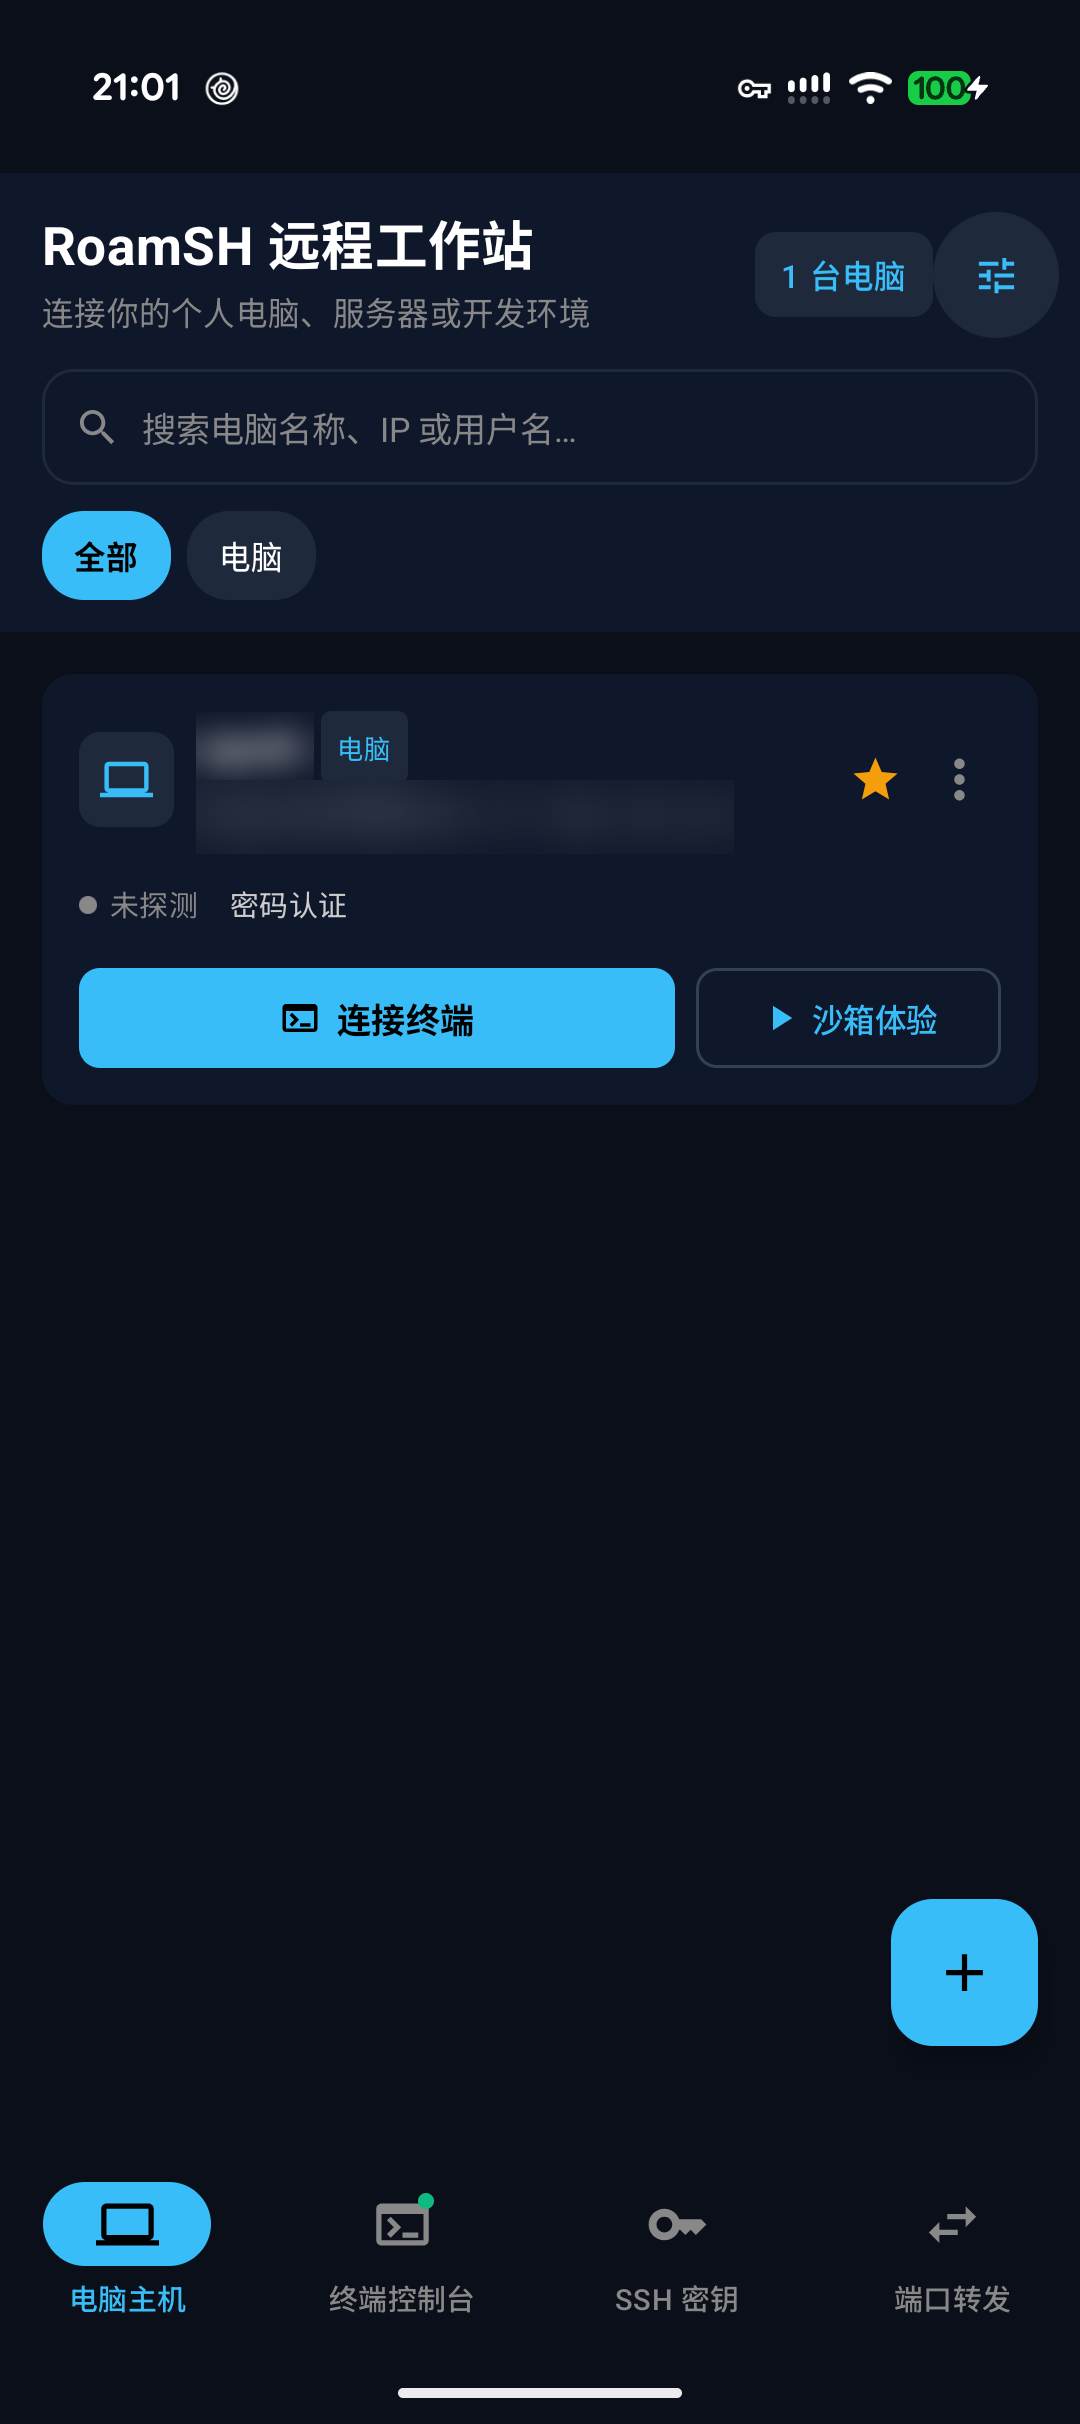
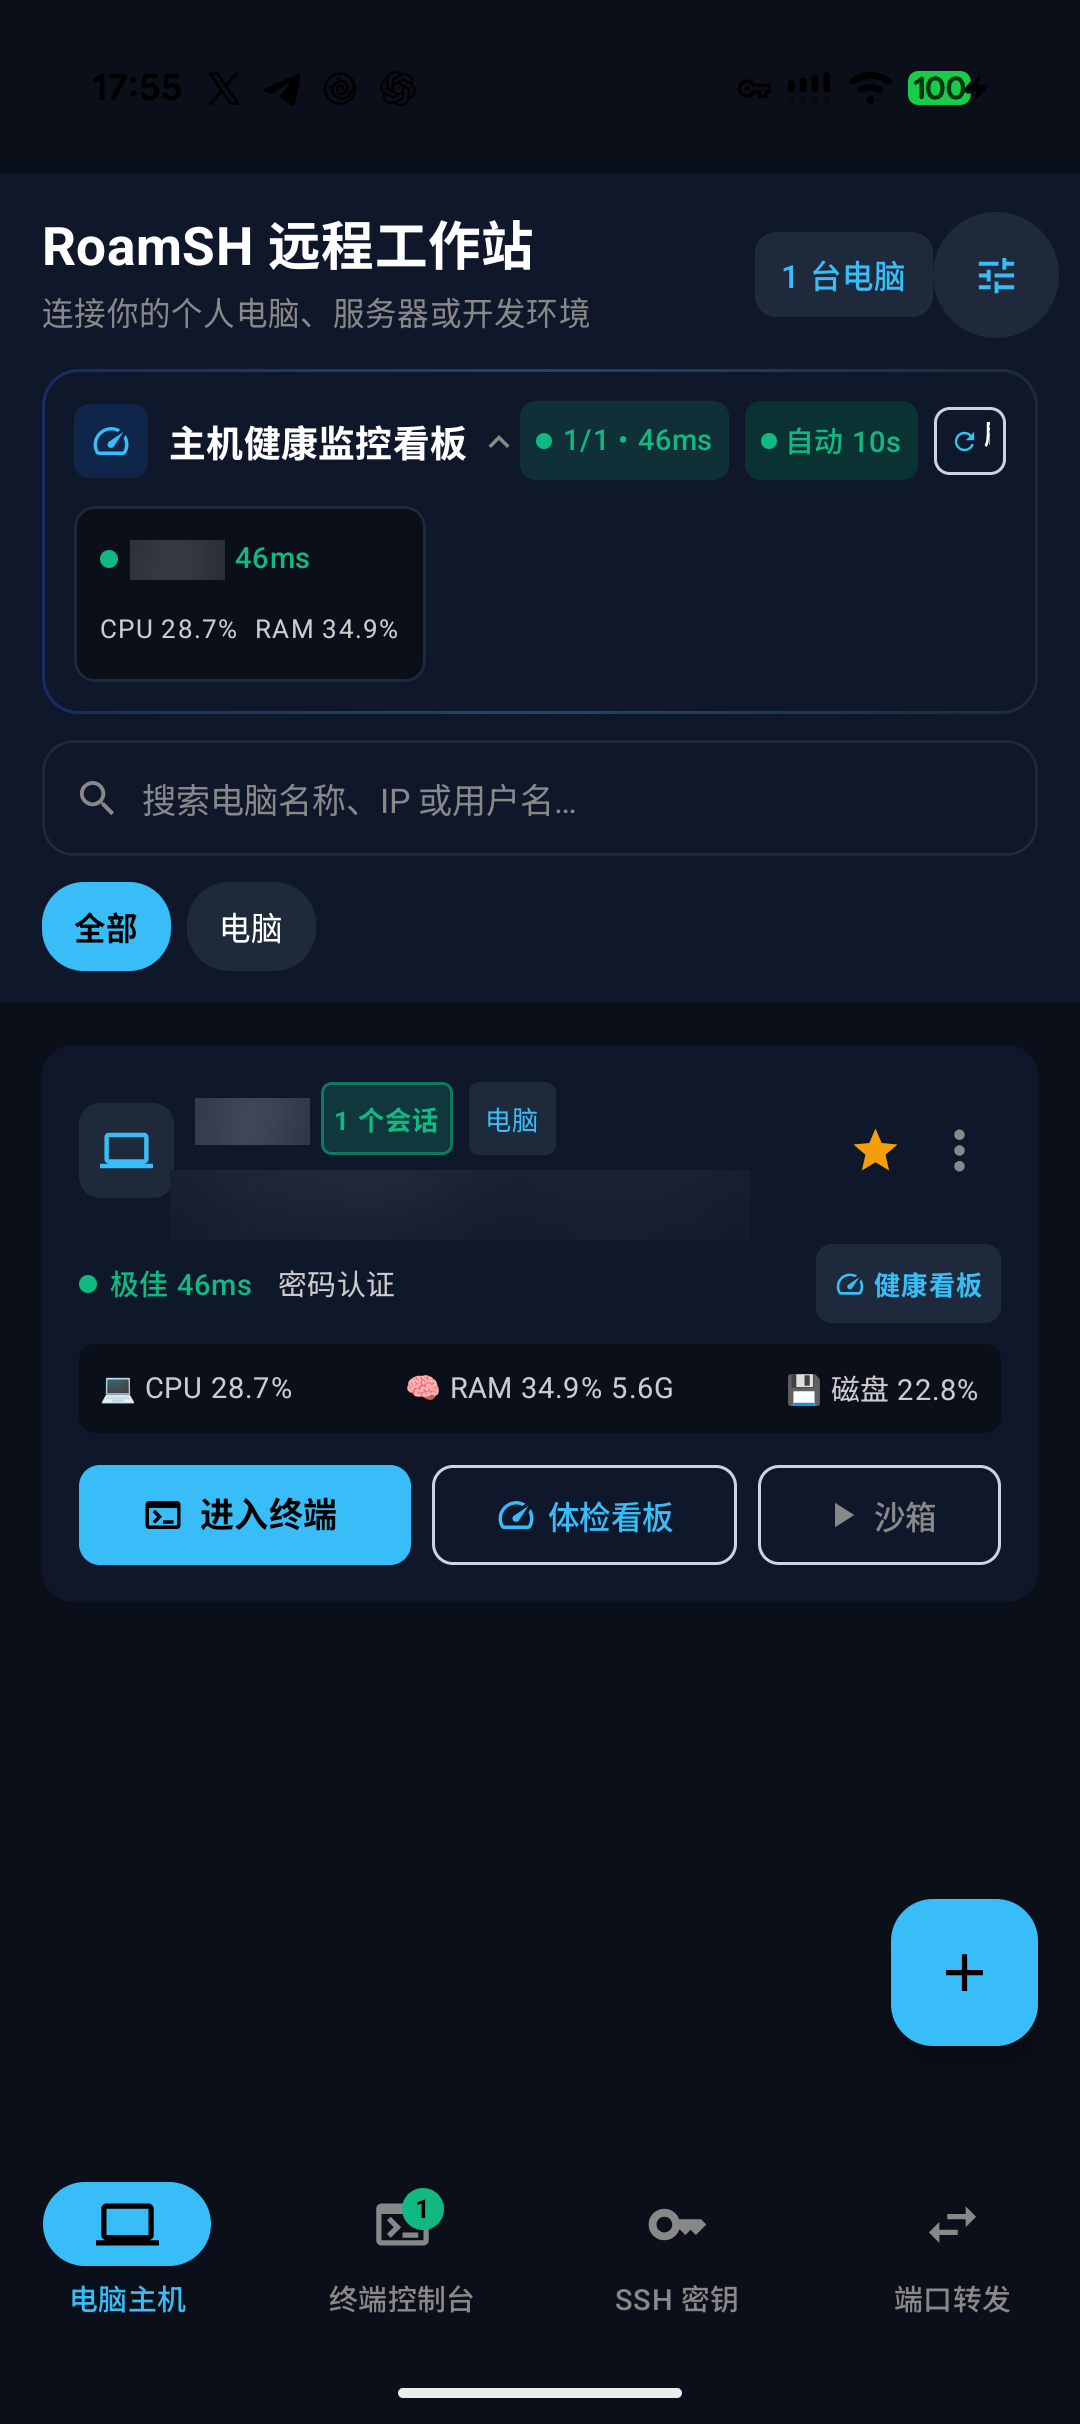
docs: update README with real Pixel 9 screenshots and comprehensive feature showcase; remove sensitive IP

diff --git a/app/src/main/java/com/example/ssh/HostHealthProber.kt b/app/src/main/java/com/example/ssh/HostHealthProber.kt
@@ -342,6 +342,6 @@ object HostHealthProber {
 
   private fun isSimulatedOrDemoHost(cleanHost: String): Boolean {
     val h = cleanHost.lowercase()
-    return h == "simulation" || h == "local-sandbox" || h == "sandbox" || h == "localhost" || h == "127.0.0.1" || h.contains("100.77.165.35")
+    return h == "simulation" || h == "local-sandbox" || h == "sandbox" || h == "localhost" || h == "127.0.0.1" || h.contains("demo") || h.contains("example")
   }
 }

diff --git a/README_zh.md b/README_zh.md
@@ -5,7 +5,7 @@
 [English](./README.md) | **简体中文**
 
 > **专为移动端开发者打造的现代化 Android SSH 远程终端与开发工作站**  
-> 采用 Kotlin + Jetpack Compose + Material 3 开发，原生高性能、全功能特制键盘、超长后台守护、1Password 凭据一键解析与零配置沙盒体验。
+> 采用 Kotlin + Jetpack Compose + Material 3 开发，原生高性能、多会话标签页管理、主机快速健康监控、Tmux 专属控制条、全功能特制键盘、超长后台守护、系统凭据一键解析与零配置沙盒体验。
 
 </div>
 
@@ -15,31 +15,48 @@
 
 > *以下截图均采自 Google Pixel 9 真机，已对敏感网络 IP 与主机名进行高斯模糊脱敏。*
 
-| 主机列表与资产管理 | 全功能终端控制台 (双层键盘与 ANSI 高亮) |
+| 主机监控看板与资产管理 | 主机实时健康探针详情 |
 | :---: | :---: |
-| <img src="screenshots/01_hosts.png" width="360" alt="主机管理列表" /> | <img src="screenshots/02_terminal.png" width="360" alt="全功能终端与开发者键盘" /> |
+| <img src="screenshots/01_hosts.png" width="340" alt="主机监控看板与资产管理" /> | <img src="screenshots/02_health_detail.png" width="340" alt="主机实时健康探针详情" /> |
 
-| 1Password 凭据快速解析 | SSH 密钥管理 (免密登录) | 端口转发隧道 (本地/远程映射) |
+| 多会话标签页终端 (双层键盘与 ANSI 高亮) | Tmux / Screen 专属双层控制条 (多窗口与触控滚屏) |
+| :---: | :---: |
+| <img src="screenshots/03_terminal.png" width="340" alt="多会话标签页终端控制台" /> | <img src="screenshots/04_tmux.png" width="340" alt="Tmux / Screen 专属控制条" /> |
+
+| 现代化主机添加与系统凭据自动填充 | SSH 密钥管理 (免密登录) | 端口转发隧道 (本地/远程映射) |
 | :---: | :---: | :---: |
-| <img src="screenshots/05_add_host.png" width="280" alt="1Password 凭据解析" /> | <img src="screenshots/03_keys.png" width="280" alt="SSH 密钥管理" /> | <img src="screenshots/04_tunnels.png" width="280" alt="端口转发隧道" /> |
+| <img src="screenshots/05_add_host.png" width="280" alt="现代化主机添加与凭据填充" /> | <img src="screenshots/06_keys.png" width="280" alt="SSH 密钥管理" /> | <img src="screenshots/07_tunnels.png" width="280" alt="端口转发隧道" /> |
 
 ---
 
 ## ✨ 核心特性
 
+- **📑 多会话多标签页管理 (Multi-Session Tabs)**：
+  - 顶部常驻轻量化标签栏（`TerminalTabBar`），支持同时连接多台远程 SSH 服务器与本地模拟沙箱会话。
+  - 支持会话动态指示器、标签长按重命名、安全关闭确认、一键 `+` 快速新建会话或调起沙箱。
+  - 各会话独立后台守护，互不干扰，秒级平滑切换。
+- **📊 主机快速健康监控看板 (Live Host Health)**：
+  - 卡片式健康监控，直观展示实时网络延迟徽标（如 `46ms 极佳`）、连通状态与 CPU/内存/磁盘概览。
+  - 支持后台 10 秒周期自动刷新，无需手动刷新即可掌握服务器实时动态。
+  - 深度「健康看板」弹窗：详细展示 CPU 占用进度条、内存/磁盘容量占比，以及占用最高的关键进程列表（如 `dockerd`、`node`、`redis-server`、`sshd`），并提供一键连接终端与刷新功能。
+- **🎛 Tmux / Screen 专属双层控制条 (Tmux Mode)**：
+  - 专为手机触屏复用终端设计的双层控制栏：
+    - **第 1 层（可视化窗口标签页）**：参照外部标签栏的操作习惯，直观展示 Tmux 内部窗口（`0: 窗口 1`、`1: 窗口 2`），支持点击直接切换、`+` 一键新建窗口、`x` 一键关闭窗口。
+    - **第 2 层（触控与窗格工具）**：一键开启 `🖱 触控滚屏`（无需进入复制模式即可用手指滑动回滚查看历史输出），支持一键水平/垂直分屏（`%`、`"`）、窗格焦点切换、窗格缩放（`z`）与窗格指令同步。
 - **⌨ 开发者特制双层辅助键盘**：
-  - 针对触屏编码的极致人体工程学优化：`ESC`、`TAB`、`Ctrl-C`、`Ctrl-D`、`Ctrl`、`Alt` 修饰键、方向键、常用代码符号（`|`、`~`、`/`、`\`）一键直达。
-  - 原生中文拼音输入与终端控制台平滑融合，支持动态智能代码片段与指令自动补全。
+  - 针对触屏编码的人体工程学优化：`ESC`、`TAB`、`Ctrl-C`、`Ctrl-D`、`Ctrl`、`Alt` 修饰键、方向键、常用代码符号（`|`、`~`、`/`、`\`）一键直达。
+  - 原生拼音输入与终端控制台平滑融合，支持常用命令补全（如 `agy` 命令补全提示）与代码片段一键插入。
 - **🛡 超强后台守护 (Keep-Alive)**：
   - 前台服务 (Foreground Service) + CPU 浅度唤醒锁 (Partial WakeLock) + WiFi 高性能锁 + 底层 SSH 心跳包保持。
   - 熄屏或切屏回微信、查阅文档时，远程长耗时编译、训练或服务绝不断连。
-- **📋 1Password / Bitwarden 凭据一键智能解析**：
+- **🔐 系统凭据管理与智能剪贴板解析**：
+  - 原生无缝接入 Android 系统凭据服务（支持 1Password、Bitwarden、KeePassDX、Google 密码管理工具等）。
   - 智能识别剪贴板中的多行格式凭据、标准 SSH URL（`ssh://user:pass@host:port`）以及原生连接命令（`ssh -p 2200 user@host`），一键自动填充。
 - **🎨 8+ 程序员主题与自适应终端**：
   - 内置 Dracula, Nord, Solarized, Gruvbox, One Dark, Monokai, Retro Matrix 等经典终端配色方案。
   - 实时根据屏幕分辨率自适应计算 PTY 尺寸并分发 `SIGWINCH` 信号，支持随时切换「保持对齐」与「智能折行」。
 - **🧪 零配置沙盒体验 (Local Dev Sandbox)**：
-  - 无需先配置真实主机，内置高仿真本地沙盒环境，即刻体验开发指令交互。
+  - 无需先配置真实主机，内置高仿真本地沙盒环境，即刻体验开发指令交互（`git`、`npm`、`python`、`docker`、`htop`、`tmux`）。
 - **🔑 密钥生成与端口转发**：
   - 手机端一键生成 Ed25519 / RSA 2048 位密钥对，支持导入私钥与公钥一键复制。
   - 支持 Local Port Forwarding，手机端直接预览远程运行的 Vite (3000) 或 API (8080) 服务。

diff --git a/README.md b/README.md
@@ -5,7 +5,7 @@
 **English** | [简体中文](./README_zh.md)
 
 > **A Modern Native Android SSH Remote Terminal & Dev Workstation for Mobile Coders**  
-> Built with Kotlin, Jetpack Compose, and Material 3. Engineered for developer ergonomics, full-featured touch keyboard, rock-solid background keep-alive, 1Password credential autofill, and a zero-config simulation sandbox.
+> Built with Kotlin, Jetpack Compose, and Material 3. Engineered for developer ergonomics, multi-session tabs, live host health monitoring, dedicated Tmux control, full-featured touch keyboard, rock-solid background keep-alive, system credential autofill, and a zero-config simulation sandbox.
 
 </div>
 
@@ -15,31 +15,48 @@
 
 > *All screenshots captured directly from a physical Google Pixel 9. Private network hostnames and IP addresses have been desensitized using Gaussian blur.*
 
-| Host Management & Assets | Terminal Console (Dual Keyboard & ANSI Colors) |
+| Host Management & Live Latency Dashboard | Real-Time Health Probe Detail |
 | :---: | :---: |
-| <img src="screenshots/01_hosts.png" width="360" alt="Host Management" /> | <img src="screenshots/02_terminal.png" width="360" alt="Terminal Console" /> |
+| <img src="screenshots/01_hosts.png" width="340" alt="Host Management & Live Health Dashboard" /> | <img src="screenshots/02_health_detail.png" width="340" alt="Host Health Probe Detail" /> |
 
-| 1Password Autofill Banner | SSH Key Management | Port Forwarding Tunnels |
+| Multi-Session Tabs Terminal Console | Dedicated Tmux / Screen Control Bar |
+| :---: | :---: |
+| <img src="screenshots/03_terminal.png" width="340" alt="Multi-Session Tabs Terminal Console" /> | <img src="screenshots/04_tmux.png" width="340" alt="Dedicated Tmux Control Bar" /> |
+
+| Modern Host Setup & Credential Autofill | SSH Key Management | Port Forwarding Tunnels |
 | :---: | :---: | :---: |
-| <img src="screenshots/05_add_host.png" width="280" alt="1Password Autofill" /> | <img src="screenshots/03_keys.png" width="280" alt="SSH Keys" /> | <img src="screenshots/04_tunnels.png" width="280" alt="Port Forwarding" /> |
+| <img src="screenshots/05_add_host.png" width="280" alt="Modern Host Setup & Credential Autofill" /> | <img src="screenshots/06_keys.png" width="280" alt="SSH Key Management" /> | <img src="screenshots/07_tunnels.png" width="280" alt="Port Forwarding Tunnels" /> |
 
 ---
 
 ## ✨ Features
 
+- **📑 Multi-Session Tab Management (Tabs)**:
+  - Simultaneous multi-host SSH connections and local sandbox tabs in a sleek, horizontal tab bar (`TerminalTabBar`).
+  - Active session indicator, custom tab renaming, close confirmations, and swift switching between active tasks.
+  - Independent background keepalive and execution persistence for each open session.
+- **📊 Host Health Monitoring & Auto-Refresh (Live Dashboard)**:
+  - Real-time host latency ping & status badge (`46ms 极佳`) displayed directly on the host card.
+  - Automatic 10-second background polling cycle keeping server metrics up-to-date.
+  - Comprehensive Host Health Probe Detail dialog with CPU utilization, RAM usage, storage space, and top resource-consuming processes (`dockerd`, `node`, `redis-server`, `sshd`).
+- **🎛 Dedicated Tmux / Screen Control Bar (Tmux Mode)**:
+  - Dual-tier visual control bar optimized for mobile terminal multiplexing:
+    - **Tier 1 (Visual Window Tabs)**: Replicates native tab ergonomics directly inside tmux (`0: window 1`, `1: window 2`, `+` new window, `x` kill window, and quick window jumping).
+    - **Tier 2 (Touch Tools & Panes)**: One-tap mouse mode toggle (`🖱 触控滚屏`) enabling direct finger flick scrolling inside tmux without entering copy mode, split pane horizontally/vertically (`%`, `"`), pane navigation, pane zoom (`z`), and synchronize panes.
 - **⌨ Dual-Layer Developer Quick Keyboard Bar**:
   - Purpose-built for touchscreen coding: `ESC`, `TAB`, `Ctrl-C`, `Ctrl-D`, `Ctrl`, `Alt` modifier toggles, directional arrows, and high-frequency code symbols (`|`, `~`, `/`, `\`) accessible in one tap.
-  - Native virtual keyboard (IME) integration with fluid Chinese/English input, auto-completion, and command snippet insertion.
+  - Native virtual keyboard (IME) integration with fluid Chinese/English input, shell auto-completion (including `agy` completions), and command snippet insertion.
 - **🛡 Ultra-Reliable Background Keep-Alive**:
   - System Foreground Service + Partial CPU WakeLock + WiFi High-Performance Lock + SSH heartbeat packets (`ServerAliveInterval`).
   - Keeps long-running compilation, tests, or AI training alive even when the screen is locked or while switching between apps (e.g. WeChat, Slack, browsers).
-- **📋 1Password / Bitwarden One-Tap Autofill**:
+- **🔐 System Credential Autofill & Smart Parser**:
+  - Native integration with Android System Credential Manager (compatible with 1Password, Bitwarden, KeePassDX, and Google Password Manager).
   - Smart clipboard parser supporting multi-line vault exports, URI formats (`ssh://user:pass@host:port`), and raw CLI connection strings (`ssh -p 2200 user@host`).
 - **🎨 8+ Developer Themes & Dynamic Terminal Viewport**:
   - Built-in classic palettes: Dracula, Nord, Solarized Dark/Light, Gruvbox Dark/Light, One Dark, Monokai, and Retro Matrix.
   - Adaptive PTY dimension calculation with real-time `SIGWINCH` dispatching to remote hosts. Easily toggle between horizontal alignment and soft line wrapping.
 - **🧪 Zero-Config Local Sandbox (Simulation Shell)**:
-  - Experiment with CLI commands (`git`, `npm`, `python`, `docker`, `htop`) in a built-in sandbox without needing an active server.
+  - Experiment with CLI commands (`git`, `npm`, `python`, `docker`, `htop`, `tmux`) in a built-in sandbox without needing an active server.
 - **🔑 On-Device Key Generation & Port Forwarding**:
   - Generate Ed25519 or 2048-bit RSA key pairs on your device with copyable public keys and step-by-step instructions.
   - Local Port Forwarding enables direct previews of remote web services (e.g., Vite on port 3000 or APIs on 8080) directly in your mobile browser.
